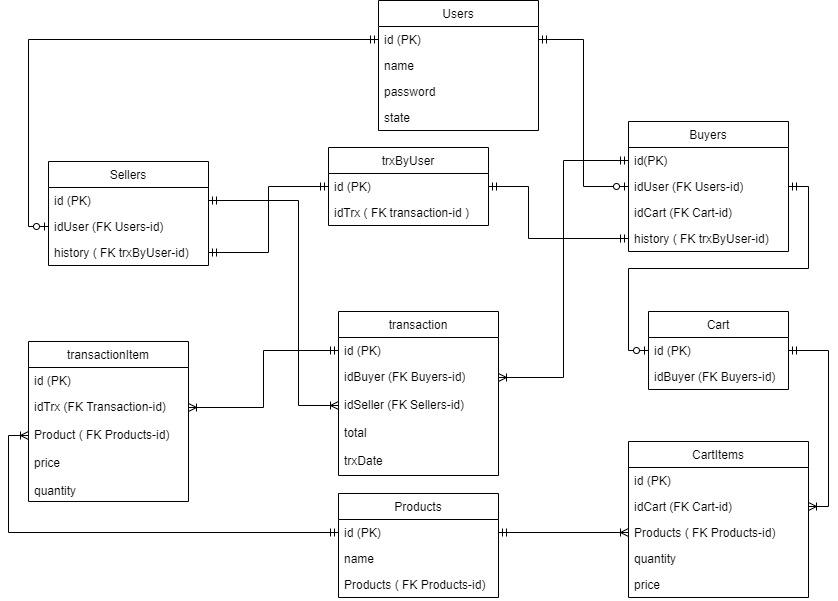
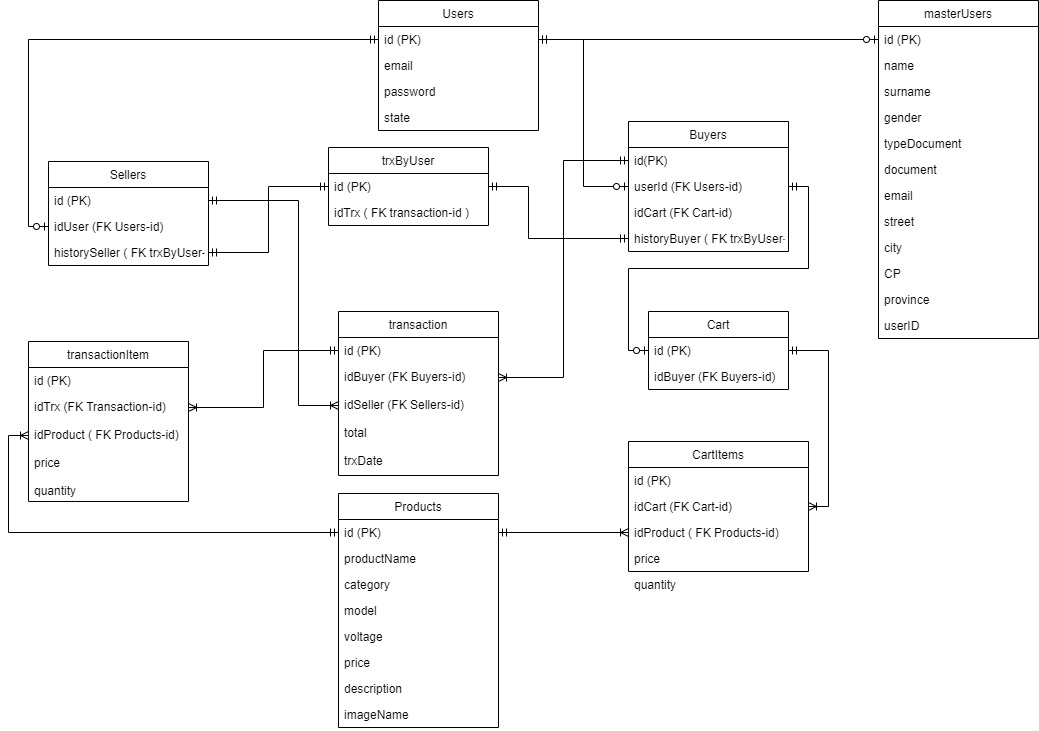
ajustes  DER + userRegister (mejora) y scripts

diff --git a/Scripts/ScriptCreaciónEstructuraBD.md b/Scripts/ScriptCreaciónEstructuraBD.md
@@ -13,14 +13,103 @@ __1. Creación de la base de datos y de todas sus tablas__
 Usuarios:
 create table Users (
 id INT NOT NULL AUTO_INCREMENT PRIMARY KEY,
-name VARCHAR(30) NOT NULL, 
+email VARCHAR(50) NOT NULL, 
 password VARBINARY(50) NOT NULL,
 state VARCHAR (25));
 
-Productos
-create table Products (
+Maestro de Usuarios:
+create table masterUsers (
 id INT NOT NULL AUTO_INCREMENT PRIMARY KEY,
-name VARCHAR(30) NOT NULL);
+name VARCHAR(30) NOT NULL, 
+surname VARCHAR(30) NOT NULL, 
+gender VARCHAR(30) NOT NULL,
+typeDocument VARCHAR(30) NOT NULL,
+document INT(10) NOT NULL, 
+email VARCHAR(50) NOT NULL, 
+street VARCHAR(100) NOT NULL,
+city VARCHAR(50) NOT NULL,
+CP varchar(10) NOT NULL,
+province VARCHAR(50) NOT NULL,
+userID INT NOT NULL,
+FOREIGN KEY (UserID) REFERENCES Users(ID));
+
+Compradores:
+create table buyers (
+id INT NOT NULL AUTO_INCREMENT PRIMARY KEY,
+userID INT NOT NULL,
+FOREIGN KEY (UserID) REFERENCES Users(ID));
+
+Carrito:
+create table cart (
+id INT NOT NULL AUTO_INCREMENT PRIMARY KEY,
+idBuyer INT NOT NULL,
+historyBuyer INT,
+FOREIGN KEY (idBuyer) REFERENCES buyers(ID));
+
+ALTER TABLE buyers
+ADD FOREIGN KEY (idCart) REFERENCES cart(ID);
+
+Vendedores:
+create table sellers (
+id INT NOT NULL AUTO_INCREMENT PRIMARY KEY,
+userID INT NOT NULL,
+historySeller INT,
+FOREIGN KEY (UserID) REFERENCES Users(ID));
+
+Transacciones:
+create table transaction (
+id INT NOT NULL AUTO_INCREMENT PRIMARY KEY,
+idBuyer INT,
+idSeller INT,
+total INT,
+trxDate datetime,
+FOREIGN KEY (idBuyer) REFERENCES buyers(ID),
+FOREIGN KEY (idSeller) REFERENCES sellers(ID));
+
+Transacciones por usuario:
+CREATE TABLE trxByUser (
+id INT NOT NULL AUTO_INCREMENT PRIMARY KEY,
+idTrx INT NOT NULL,
+FOREIGN KEY (idTrx) REFERENCES transaction(ID));
+
+ALTER TABLE buyers
+ADD FOREIGN KEY (idCart) REFERENCES cart(ID);
+
+ALTER TABLE sellers
+ADD FOREIGN KEY (historySeller) REFERENCES trxbyuser(ID);
+
+Items de transacción:
+create table transactionItem (
+id INT NOT NULL AUTO_INCREMENT PRIMARY KEY,
+idTrx INT NOT NULL,
+idProduct INT NOT NULL,
+price INT,
+quantity INT,
+FOREIGN KEY (idProduct) REFERENCES products(ID),
+FOREIGN KEY (idTrx) REFERENCES transaction(ID));
+
+Cart Items:
+create table cartItem (
+id INT NOT NULL AUTO_INCREMENT PRIMARY KEY,
+idCart INT NOT NULL,
+idProduct INT NOT NULL,
+price INT,
+quantity INT,
+FOREIGN KEY (idProduct) REFERENCES products(ID),
+FOREIGN KEY (idCart) REFERENCES cart(ID));
+
+Productos:
+create table  Products (
+id INT NOT NULL AUTO_INCREMENT PRIMARY KEY,
+prodName VARCHAR(30) NOT NULL,
+category VARCHAR(100) NOT NULL,
+model VARCHAR(30),
+voltage VARCHAR(30),
+price decimal (6,2) NOT NULL,
+description VARCHAR(500) NOT NULL,
+image varbinary(8000) NOT NULL
+);
+
 
 
 
